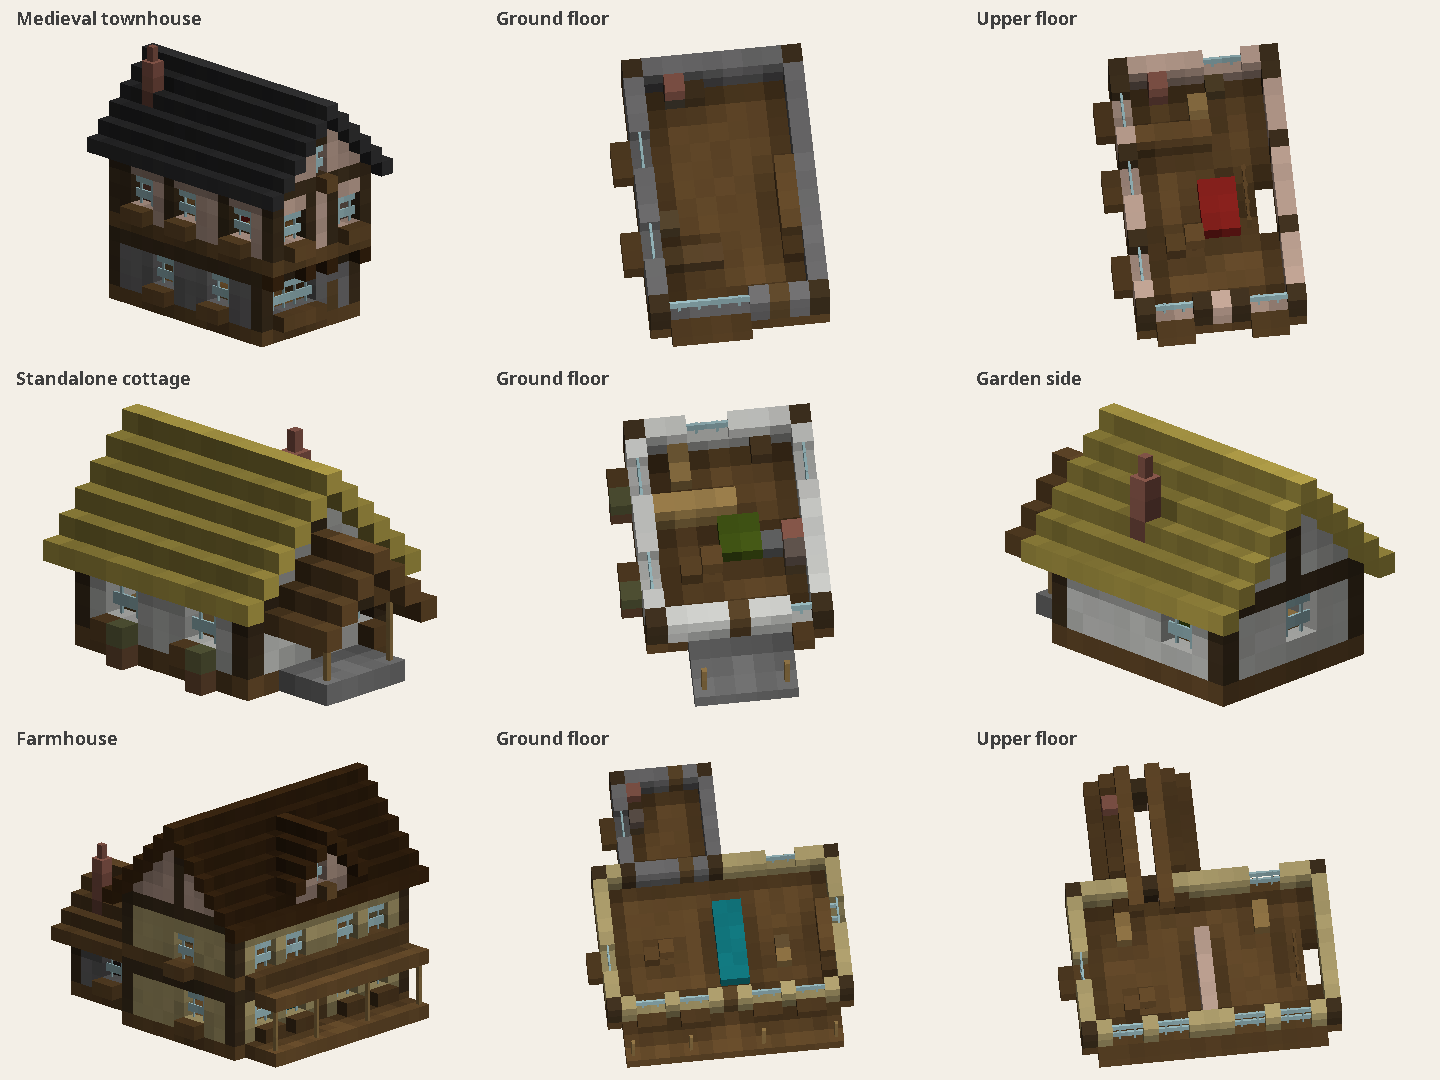
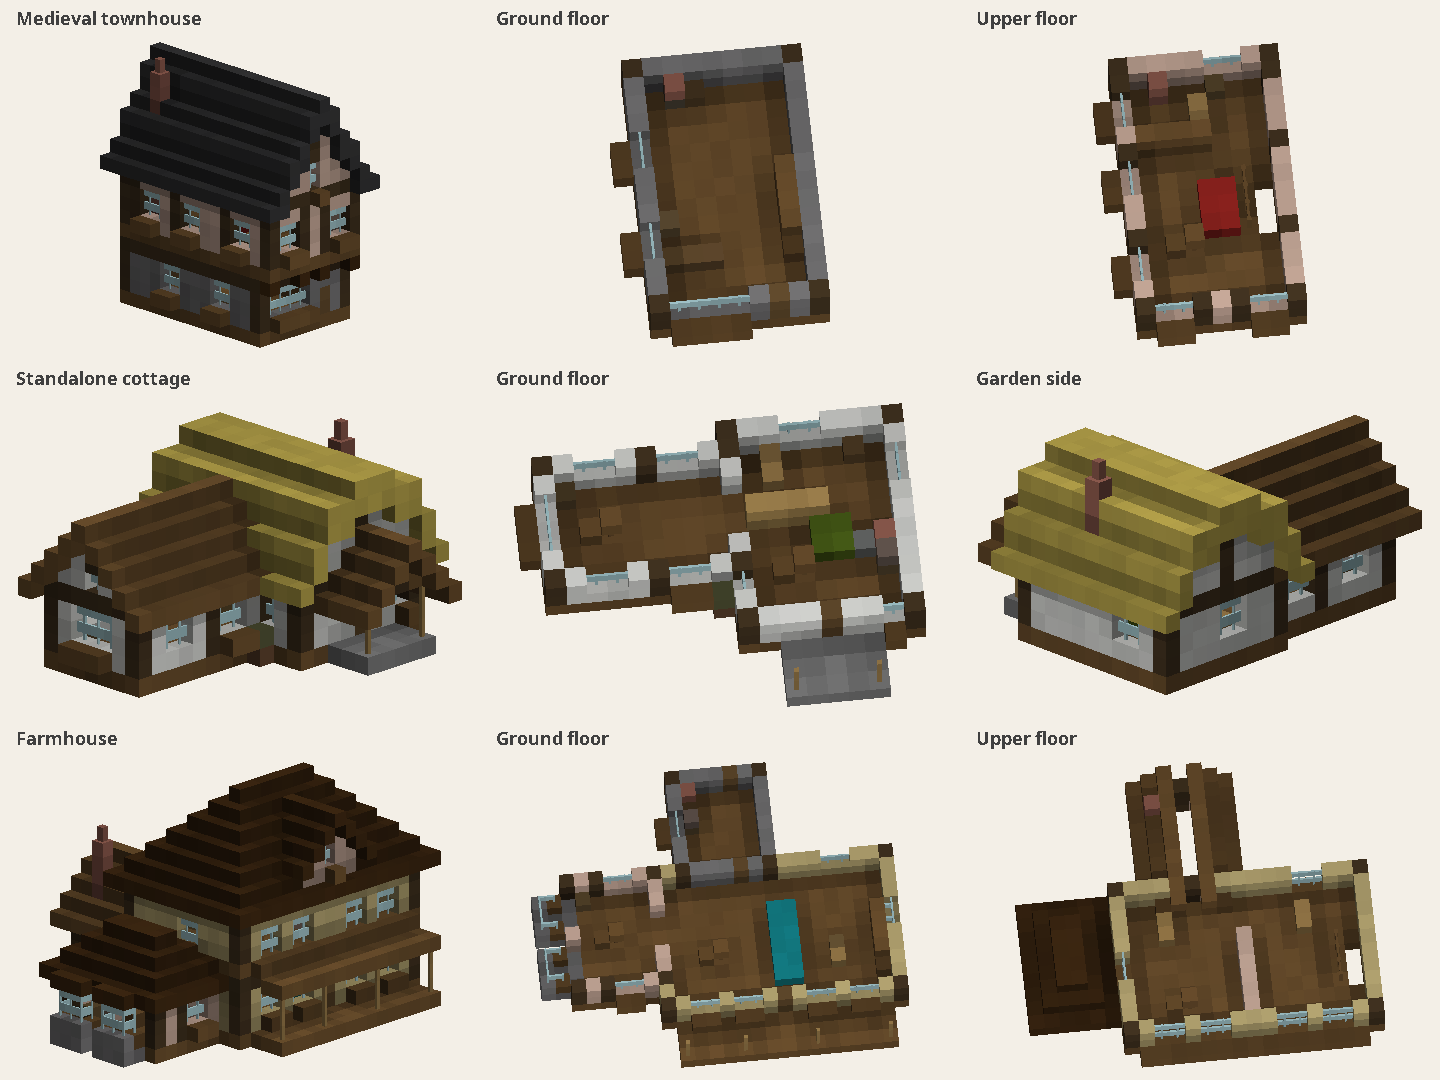
Give houses distinct roof profiles and walk-through garden wings

diff --git a/core/src/main/java/io/github/tjhgibbs/capella/core/small/Houses.java b/core/src/main/java/io/github/tjhgibbs/capella/core/small/Houses.java
@@ -9,10 +9,14 @@ public final class Houses {
     private static final String POST = "stripped_dark_oak_log";
     private static final String FLOOR = "spruce_planks";
     private static final String PLASTER = "white_terracotta";
+    private final Params.HouseRoof mainRoof;
+    private final Params.HouseLayout layout;
     private final Mason m;
     private final boolean furnished;
 
     private Houses(BuildingParams params) {
+        mainRoof = params.get(Params.HOUSE_ROOF);
+        layout = params.get(Params.HOUSE_LAYOUT);
         m = new Mason(params.seed());
         furnished = params.bool(Params.FURNISHINGS);
     }
@@ -50,19 +54,50 @@ public final class Houses {
     /** A stair pitched roof with closed gables and one block of verge and eave. */
     private void roof(int start, int end, int centre, int radius, int plate,
                       boolean ridgeAlongX, String wood, String gable) {
+        roof(start, end, centre, radius, plate, ridgeAlongX, wood, gable, Params.HouseRoof.GABLE);
+    }
+
+    private void roof(int start, int end, int centre, int radius, int plate,
+                      boolean ridgeAlongX, String wood, String gable, Params.HouseRoof profile) {
+        String backing = switch (wood) {
+            case "deepslate_tile" -> "deepslate_tiles";
+            case "bamboo_mosaic" -> "bamboo_mosaic";
+            default -> wood + "_planks";
+        };
         for (int run = start - 1; run <= end + 1; run++) {
             for (int cross = -radius - 1; cross <= radius + 1; cross++) {
                 int x = ridgeAlongX ? run : centre + cross;
                 int z = ridgeAlongX ? centre + cross : run;
-                int y = plate + radius + 1 - Math.abs(cross);
+                int inset = radius + 1 - Math.abs(cross);
+                int endInset = Math.min(run - start + 1, end + 1 - run);
+                boolean endSlope = profile == Params.HouseRoof.HIP && endInset < inset;
+                int rise = switch (profile) {
+                    case HIP -> Math.min(inset, endInset);
+                    case STEEP -> inset + inset / 2;
+                    case GAMBREL -> 2 * Math.min(inset, 2) + Math.max(0, inset - 2) / 2;
+                    case GABLE -> inset;
+                };
+                int y = plate + rise;
                 if (run == start || run == end) {
                     for (int fill = plate + 1; fill < y; fill++)
                         m.set(x, fill, z, cross == 0 ? POST : gable);
                 }
-                if (cross == 0) m.slab(x, y, z, wood + "_slab", false);
+                // A full course seals the vertical riser where adjacent stairs are two levels apart.
+                if (inset > 0 && (profile == Params.HouseRoof.STEEP || profile == Params.HouseRoof.GAMBREL)) {
+                    m.set(x, y - 1, z, backing);
+                }
+                if (profile == Params.HouseRoof.GAMBREL && inset >= 2) {
+                    if (inset % 2 == 0) m.slab(x, y, z, wood + "_slab", false);
+                    else m.set(x, y, z, backing);
+                } else if (cross == 0 && !endSlope) m.slab(x, y, z, wood + "_slab", false);
                 else {
                     String facing = ridgeAlongX ? (cross < 0 ? "south" : "north") : (cross < 0 ? "east" : "west");
-                    m.stairs(x, y, z, wood + "_stairs", facing, false);
+                    boolean lowEnd = run - start < end - run;
+                    if (endSlope) facing = ridgeAlongX ? (lowEnd ? "east" : "west") : (lowEnd ? "south" : "north");
+                    if (profile == Params.HouseRoof.HIP && endInset == inset) {
+                        boolean left = ridgeAlongX ? lowEnd == (cross < 0) : lowEnd != (cross < 0);
+                        m.set(x, y, z, wood + "_stairs", "facing", facing, "shape", left ? "outer_left" : "outer_right");
+                    } else m.stairs(x, y, z, wood + "_stairs", facing, false);
                 }
             }
         }
@@ -109,10 +144,58 @@ public final class Houses {
         }
     }
 
+    /** An offset garden wing or a broad reception room with twin projecting glazed bays. */
+    private void extension(int wallZ, int centre, String wall, String roofWood) {
+        if (layout == Params.HouseLayout.ORIGINAL) return;
+        boolean manor = layout == Params.HouseLayout.MANOR;
+        int radius = manor ? 4 : 3;
+        int end = wallZ + (manor ? 6 : 9);
+        int left = centre - radius, right = centre + radius;
+        // Remove the former exterior sills and planting along the party wall.
+        for (int x = left; x <= right; x++)
+            for (int y = -1; y <= 2; y++) m.clear(x, y, wallZ + 1);
+        room(left, right, wallZ, end, -1, 3, wall);
+        roof(wallZ + 1, end, centre, radius, 3, false, roofWood, wall,
+                manor ? Params.HouseRoof.HIP : Params.HouseRoof.GABLE);
+        for (int x = centre - 1; x <= centre + 1; x++)
+            for (int y = 0; y <= 2; y++) m.clear(x, y, wallZ);
+        casement(left, 1, wallZ + 2, true, 2);
+        box(right, right, 1, 2, wallZ + 2, wallZ + 3, "glass_pane");
+        // Frame each garden elevation in shorter bays, with a projecting sill below the glass.
+        for (int side : new int[]{left, right}) {
+            box(side, side, 0, 2, wallZ + 4, wallZ + 4, POST);
+            if (!manor) box(side, side, 1, 2, end - 3, end - 2, "glass_pane");
+        }
+        if (manor) {
+            for (int bay : new int[]{centre - 2, centre + 2}) {
+                box(bay - 1, bay + 1, -1, -1, end, end + 2, "stone_bricks");
+                for (int x = bay - 1; x <= bay + 1; x++) {
+                    for (int y = 0; y <= 2; y++) m.clear(x, y, end);
+                    boolean corner = x != bay;
+                    if (corner) {
+                        m.set(x, 0, end + 1, FLOOR);
+                        box(x, x, 1, 2, end + 1, end + 1, "glass_pane");
+                    }
+                    m.set(x, 0, end + 2, "stone_bricks");
+                    box(x, x, 1, 2, end + 2, end + 2, "glass_pane");
+                    m.slab(x, 3, end + 2, roofWood + "_slab", false);
+                    m.set(x, 3, end + 1, roofWood + "_stairs", "facing", "north");
+                }
+            }
+        } else {
+            casement(centre - 1, 1, end, false, 3);
+            m.set(centre, 4, end, "glass_pane");
+        }
+        if (furnished) {
+            table(centre, 0, end - 3);
+            m.set(right - 1, 0, end - 1, "bookshelf");
+        }
+    }
+
     private void townhouse() {
         room(0, 13, -2, 6, -1, 3, "stone_bricks");
         room(-1, 13, -2, 6, 4, 9, PLASTER);
-        roof(-1, 13, 2, 4, 9, true, "deepslate_tile", PLASTER);
+        roof(-1, 13, 2, 4, 9, true, "deepslate_tile", PLASTER, mainRoof);
         for (int z : new int[]{-2, 1, 3, 6}) {
             m.stairs(-1, 3, z, "dark_oak_stairs", "east", true);
             box(-1, -1, 5, 8, z, z, POST);
@@ -123,14 +206,14 @@ public final class Houses {
         }
         casement(-1, 6, -1, true, 2);
         casement(-1, 6, 4, true, 2);
-        casement(-1, 10, 2, true, 1);
+        if (mainRoof != Params.HouseRoof.HIP) casement(-1, 10, 2, true, 1);
         casement(0, 1, 2, true, 4);
         for (int x : new int[]{3, 8}) casement(x, 1, 6, false, 2);
         box(13, 13, 6, 7, 0, 1, "glass_pane");
         door(0, 0, "west");
         flight(3, -1, 4);
         box(9, 9, 5, 8, 2, 5, FLOOR);
-        stack(12, 4, 14, "west");
+        stack(12, 4, 15, "west");
         m.set(1, 3, 0, "lantern", "hanging", "true");
         if (furnished) {
             for (int z = 3; z <= 5; z++) m.set(3, 0, z, "barrel", "facing", "up");
@@ -141,11 +224,12 @@ public final class Houses {
             bed(10, 5, 2, "red");
             m.set(12, 5, 1, "bookshelf");
         }
+        extension(6, 7, PLASTER, "deepslate_tile");
     }
 
     private void cottage() {
         room(0, 10, -4, 4, -1, 3, "calcite");
-        roof(0, 10, 0, 4, 3, true, "bamboo_mosaic", "calcite");
+        roof(0, 10, 0, 4, 3, true, "bamboo_mosaic", "calcite", mainRoof);
         // A small cross gable shelters the entrance on two freestanding posts.
         box(-3, -1, -1, -1, -2, 2, "cobblestone");
         for (int z : new int[]{-2, 2}) box(-3, -3, 0, 2, z, z, "oak_fence");
@@ -161,7 +245,7 @@ public final class Houses {
             m.set(x, 0, 5, "flowering_azalea");
         }
         box(6, 6, 0, 3, 0, 3, "stripped_oak_log");
-        stack(4, -3, 7, "south");
+        stack(4, -3, 8, "south");
         m.set(4, 0, -2, "polished_andesite_slab");
         if (furnished) {
             table(3, 0, 1);
@@ -171,12 +255,13 @@ public final class Houses {
             m.set(3, 0, -3, "crafting_table");
             m.set(3, 1, -3, "lantern");
         }
+        extension(4, 6, "calcite", "spruce");
     }
 
     private void farmhouse() {
         room(0, 10, -8, 8, -1, 3, "birch_planks");
         room(0, 10, -8, 8, 4, 8, "birch_planks");
-        roof(-8, 8, 5, 5, 8, false, "dark_oak", PLASTER);
+        roof(-8, 8, 5, 5, 8, false, "dark_oak", PLASTER, mainRoof);
         // Cross-gabled front dormer tucked into the main slope.
         for (int z : new int[]{-2, 2}) box(0, 2, 9, 10, z, z, PLASTER);
         box(0, 0, 9, 10, -1, 1, PLASTER);
@@ -219,5 +304,6 @@ public final class Houses {
             m.set(14, 0, 5, "crafting_table");
             m.set(14, 1, 5, "lantern");
         }
+        extension(8, 6, PLASTER, "dark_oak");
     }
 }

diff --git a/core/src/main/java/io/github/tjhgibbs/capella/core/params/Params.java b/core/src/main/java/io/github/tjhgibbs/capella/core/params/Params.java
@@ -24,6 +24,11 @@ public final class Params {
     /** Blocks: the nave's eaves above the floor (a tower's height). */
     public static final Param.Int HEIGHT = reg(new Param.Int("height", "Height", Category.SIZE, 5, 160, 63));
 
+    public enum HouseRoof { GABLE, STEEP, HIP, GAMBREL }
+    public enum HouseLayout { ORIGINAL, REAR_ELL, MANOR }
+    public static final Param.Choice<HouseRoof> HOUSE_ROOF = reg(new Param.Choice<>("house_roof", "Main roof", Category.STYLE, HouseRoof.class, HouseRoof.GABLE));
+    public static final Param.Choice<HouseLayout> HOUSE_LAYOUT = reg(new Param.Choice<>("house_layout", "House plan", Category.PLAN, HouseLayout.class, HouseLayout.ORIGINAL));
+
     /** Signed percentage grade along the bridge, quantised to walkable half-block terraces. */
     public static final Param.Int BRIDGE_SLOPE = reg(new Param.Int("bridge_slope", "Slope (%)", Category.PLAN, -25, 25, 0));
     /** Relative heading in 22.5 degree steps; placement quarter-turns are added to it. */
@@ -174,7 +179,8 @@ public final class Params {
 
     /** Whether a setting means anything for this type (the GUI hides the rest). */
     public static boolean applies(Param<?> p, BuildingType type) {
-        if (type.group == Group.HOUSES) return p == TYPE || p == FURNISHINGS;
+        if (type.group == Group.HOUSES) return p == TYPE || p == FURNISHINGS || p == HOUSE_ROOF || p == HOUSE_LAYOUT;
+        if (p == HOUSE_ROOF || p == HOUSE_LAYOUT) return false;
         boolean small = !type.cathedralPlan();
         if (p == TYPE || p == WIDTH || p == HEIGHT || p == STONE || p == LIGHTING) return true;
         if (gothicBridgeOnly(p)) return type == BuildingType.GOTHIC_BRIDGE;
@@ -229,7 +235,7 @@ public final class Params {
     /** The handful of settings the GUI shows before "All settings", by type. */
     public static List<Param<?>> basic(BuildingType type) {
         return switch (type) {
-            case TOWNHOUSE, COTTAGE, FARMHOUSE -> List.of(TYPE, FURNISHINGS);
+            case TOWNHOUSE, COTTAGE, FARMHOUSE -> List.of(TYPE, HOUSE_LAYOUT, HOUSE_ROOF, FURNISHINGS);
             case GOTHIC_BRIDGE -> List.of(TYPE, LENGTH, WIDTH, HEIGHT, BRIDGE_TIERS, BRIDGE_TIER_HEIGHT, BRIDGE_ARCH, BRIDGE_WALKWAYS, BRIDGE_HEADING, BRIDGE_SLOPE, STONE);
             case SUSPENSION_BRIDGE, STONE_VIADUCT, TIMBER_TRESTLE -> List.of(TYPE, LENGTH, WIDTH, HEIGHT, BRIDGE_HEADING, BRIDGE_SLOPE, STONE);
             case CHAPEL -> List.of(TYPE, LENGTH, WIDTH, HEIGHT, BELFRY, TRACERY, STONE);

diff --git a/core/src/test/java/io/github/tjhgibbs/capella/core/HousesTest.java b/core/src/test/java/io/github/tjhgibbs/capella/core/HousesTest.java
@@ -33,6 +33,39 @@ class HousesTest {
         }
     }
 
+    @Test
+    void roofProfilesAndWalkThroughGardenRoomsSurviveRotation() {
+        for (String id : List.of("townhouse", "cottage", "farmhouse")) {
+            int wall = switch (id) { case "townhouse" -> 6; case "cottage" -> 4; default -> 8; };
+            int centre = id.equals("townhouse") ? 7 : 6;
+            for (var roof : Params.HouseRoof.values()) for (var plan : Params.HouseLayout.values()) {
+                var params = Presets.get(id).params(7).set(Params.HOUSE_ROOF, roof).set(Params.HOUSE_LAYOUT, plan);
+                for (int turn = 0; turn < 4; turn++) {
+                    var v = BuildingGenerator.generate(params, turn).volume();
+                    if (id.equals("townhouse")) {
+                        int ridge = roof == Params.HouseRoof.STEEP ? 16 : 14;
+                        String cap = roof == Params.HouseRoof.GAMBREL ? "deepslate_tiles" : "slab";
+                        assertTrue(at(v, turn, 5, ridge, 2).contains(cap));
+                        boolean hip = roof == Params.HouseRoof.HIP;
+                        assertEquals(hip, at(v, turn, -2, 9, 2).contains("stairs"));
+                    }
+                    if (plan == Params.HouseLayout.ORIGINAL) continue;
+                    for (int z = wall; z <= wall + 2; z++) {
+                        assertTrue(at(v, turn, centre, -1, z).contains("planks"));
+                        for (int y = 0; y < 3; y++)
+                            assertEquals(BlockVolume.AIR, at(v, turn, centre, y, z));
+                    }
+                    if (plan == Params.HouseLayout.MANOR) {
+                        for (int x : new int[]{centre - 2, centre + 2}) {
+                            assertEquals(BlockVolume.AIR, at(v, turn, x, 1, wall + 6));
+                            assertTrue(at(v, turn, x, 1, wall + 8).contains("glass_pane"));
+                        }
+                    }
+                }
+            }
+        }
+    }
+
     private String at(BlockVolume v, int turn, int x, int y, int z) {
         for (int i = 0; i < turn; i++) {
             int previousX = x;

diff --git a/core/src/main/java/io/github/tjhgibbs/capella/core/params/Presets.java b/core/src/main/java/io/github/tjhgibbs/capella/core/params/Presets.java
@@ -159,11 +159,22 @@ public final class Presets {
         add("stables", "Stables", "A timber stable range under a gambrel roof and cupola: loose boxes with their own yard doors, tack room, feed store and a hayloft with a hoist door. Height adds lofts.",
                 p -> size(p, BuildingType.STABLES, 29, 13, 9));
         add("townhouse", "Medieval townhouse", "A jettied timber merchant house with a street shop and private chambers upstairs.",
-                p -> Params.changeType(p, BuildingType.TOWNHOUSE));
+                p -> {
+                    Params.changeType(p, BuildingType.TOWNHOUSE);
+                    p.set(Params.HOUSE_ROOF, Params.HouseRoof.STEEP);
+                });
         add("cottage", "Standalone cottage", "A low limewashed cottage with a hooded porch, warm hearth and screened sleeping alcove.",
-                p -> Params.changeType(p, BuildingType.COTTAGE));
+                p -> {
+                    Params.changeType(p, BuildingType.COTTAGE);
+                    p.set(Params.HOUSE_ROOF, Params.HouseRoof.GAMBREL);
+                    p.set(Params.HOUSE_LAYOUT, Params.HouseLayout.REAR_ELL);
+                });
         add("farmhouse", "Farmhouse", "A broad porch fronts the family hall, with upstairs bedrooms and a lower kitchen wing opening onto the yard.",
-                p -> Params.changeType(p, BuildingType.FARMHOUSE));
+                p -> {
+                    Params.changeType(p, BuildingType.FARMHOUSE);
+                    p.set(Params.HOUSE_ROOF, Params.HouseRoof.HIP);
+                    p.set(Params.HOUSE_LAYOUT, Params.HouseLayout.MANOR);
+                });
         // Walls: modular castle walls with open ends, for joining to towers (Fortification).
         add("curtainwall", "Curtain wall", "A modular castle wall with flush ends for joining towers. Buttresses and battlements face the builder's left as it is laid; the court side is plain.",
                 p -> size(p, BuildingType.CURTAIN_WALL, 40, 5, 12));

diff --git a/core/src/main/java/io/github/tjhgibbs/capella/core/preview/HouseReviewDump.java b/core/src/main/java/io/github/tjhgibbs/capella/core/preview/HouseReviewDump.java
@@ -2,6 +2,7 @@ package io.github.tjhgibbs.capella.core.preview;
 
 import io.github.tjhgibbs.capella.core.BuildingGenerator;
 import io.github.tjhgibbs.capella.core.params.Presets;
+import io.github.tjhgibbs.capella.core.params.Params;
 import io.github.tjhgibbs.capella.core.voxel.BlockVolume;
 
 import javax.imageio.ImageIO;
@@ -34,6 +35,22 @@ public final class HouseReviewDump {
         }
         g.dispose();
         ImageIO.write(sheet, "png", out.resolve("houses.png").toFile());
+        var options = new BufferedImage(4 * W, 3 * H, BufferedImage.TYPE_INT_RGB);
+        var graphics = options.createGraphics();
+        graphics.setColor(new Color(0xf3efe7));
+        graphics.fillRect(0, 0, options.getWidth(), options.getHeight());
+        for (var layout : Params.HouseLayout.values()) for (var roof : Params.HouseRoof.values()) {
+            var params = Presets.get("cottage").params(7).set(Params.HOUSE_LAYOUT, layout).set(Params.HOUSE_ROOF, roof);
+            String label = switch (layout) {
+                case ORIGINAL -> "Original";
+                case REAR_ELL -> "L-shaped wing";
+                case MANOR -> "Bay-fronted manor";
+            };
+            panel(graphics, BuildingGenerator.generate(params).volume(), roof.ordinal(), layout.ordinal(),
+                    label + " / " + Params.HOUSE_ROOF.format(roof), 135, 19);
+        }
+        graphics.dispose();
+        ImageIO.write(options, "png", out.resolve("house-options.png").toFile());
     }
 
     private static BlockVolume section(BlockVolume v, int bottom, int top) {

diff --git a/docs/review/houses/README.md b/docs/review/houses/README.md
@@ -2,6 +2,10 @@
 
 ![Street views and furnished floor sections of three houses](houses.png)
 
+In **Houses**, use **Main roof** and **House plan** independently on any of the three presets. The townhouse starts with a high-pitched slate gable, the cottage with a straw-coloured gambrel and an L-shaped garden wing, and the farmhouse with a four-sided hip and a reception room with twin projecting bay windows. The original gable and floor plans are available in both controls.
+
+![The cottage with four roof profiles across and three floor plans down](house-options.png)
+
 Rendered from the finished block volumes with seed 7. Each row shows the entrance and ground floor. The last column shows the upper floor, or the garden elevation for the single-storey cottage. The renderer uses average block colours and approximates furniture shapes.
 
 | Preset | What to look for |
@@ -12,7 +16,7 @@ Rendered from the finished block volumes with seed 7. Each row shows the entranc
 
 The townhouse follows the end-on, jettied street frontage and side passage recorded at [5 Higher Street, Dartmouth](https://historicengland.org.uk/listing/heritage-gateway/results/record/c39bc47e-3b72-4a06-9863-681629e456a2/MDV8542). The cottage takes its low walls and strong roof silhouette from [White Cottages](https://historicengland.org.uk/listing/the-list/list-entry/1471911). The farmhouse uses the lower kitchen wing documented in the [Pennsylvania agricultural history survey](https://www.pa.gov/content/dam/copapwp-pagov/en/phmc/documents/preservation/pennsylvania-agricultural-history-project/documents/northwestern_woodland.pdf).
 
-Reproduce the sheet with `./gradlew -PcoreOnly :core:reviewHouses`. The PNG is written to `core/build/house-review/`.
+Reproduce the sheet with `./gradlew -PcoreOnly :core:reviewHouses`. Both PNGs are written to `core/build/house-review/`.
 
 ## Pending in-game review
 
